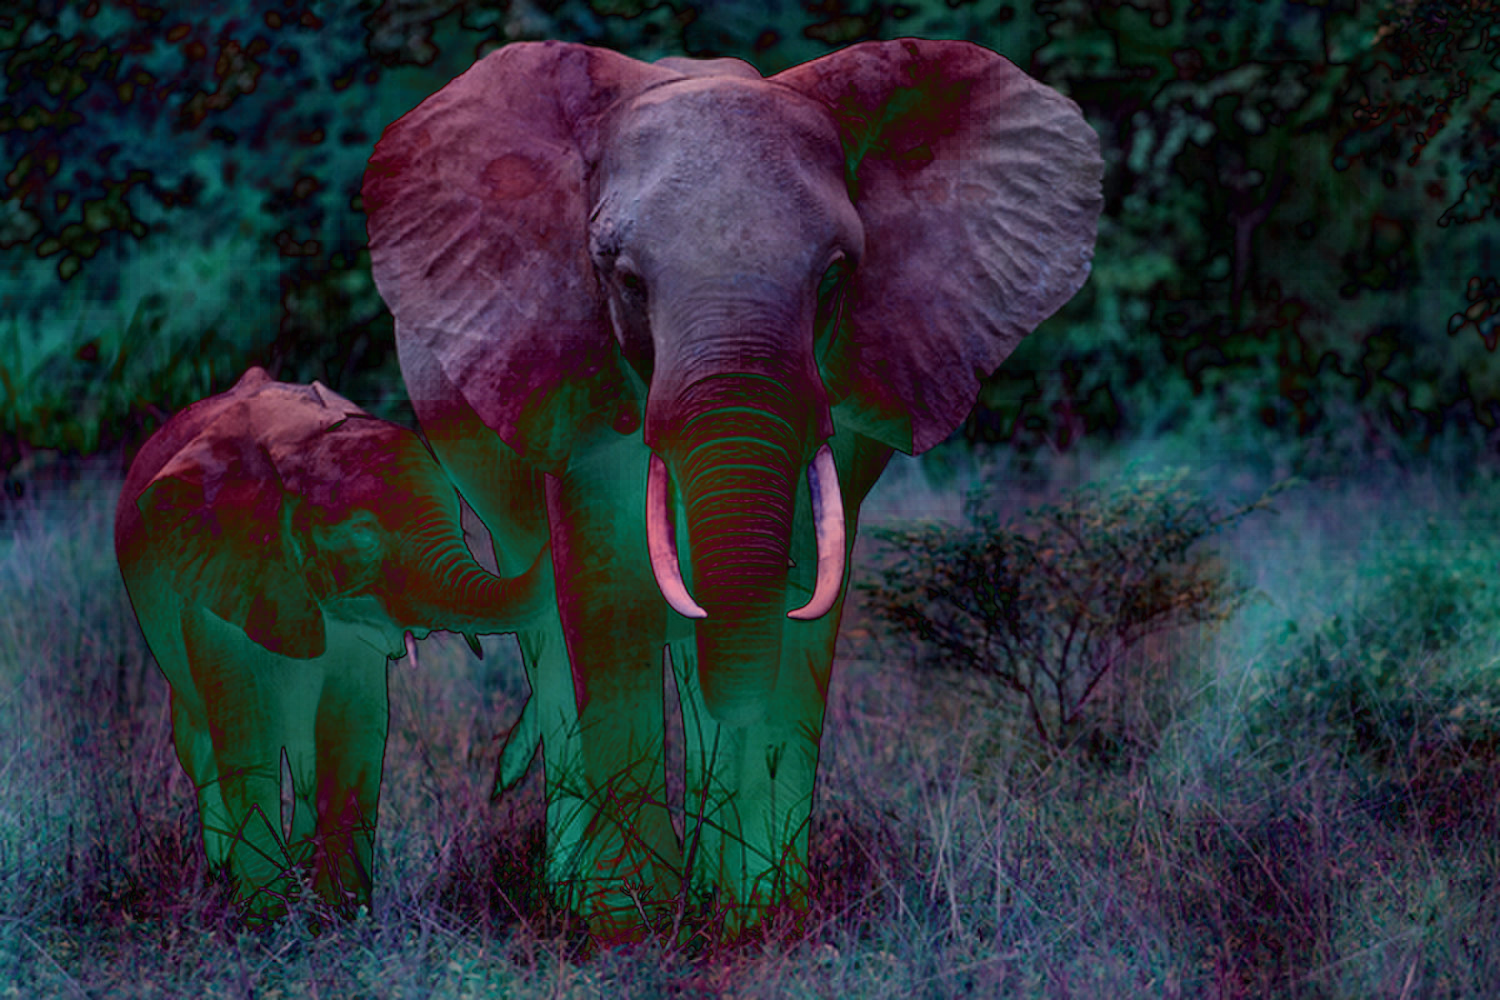
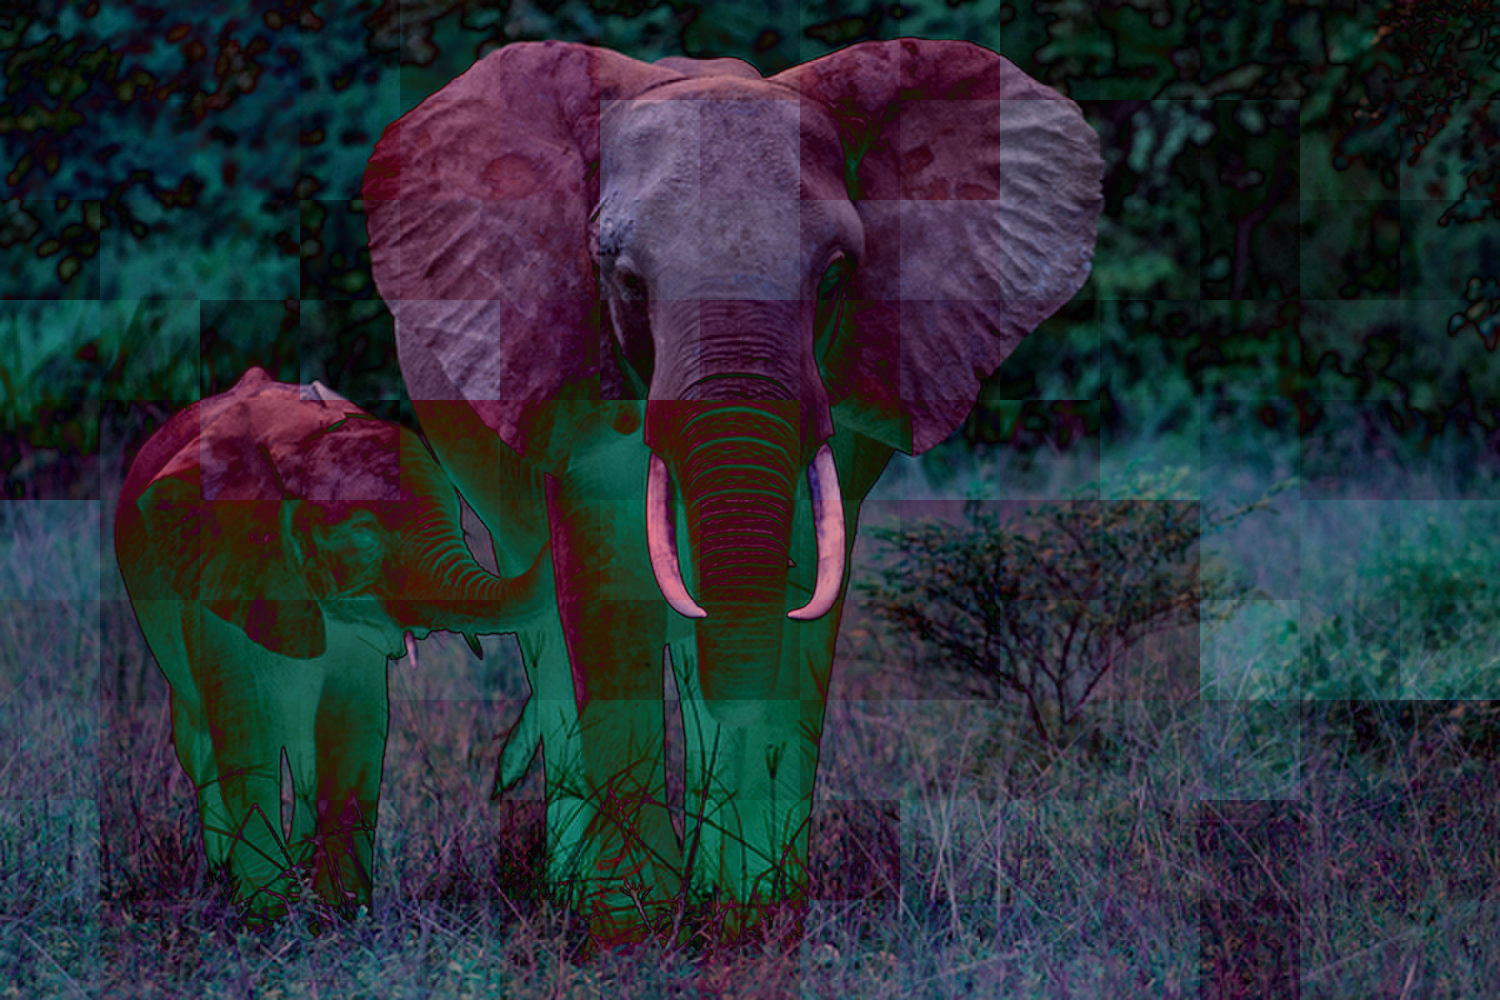
Added comments

diff --git a/images_and_deep_learning/work_with_image.py b/images_and_deep_learning/work_with_image.py
@@ -6,16 +6,16 @@ import matplotlib.pyplot as plt
 from PIL import Image, ImageChops
 
 
-########## Section 2.a −<Loading and Displaying Images>####################### 
+########## Section 2 −<Loading and Displaying Images>####################### 
 # load image
 img = cv2.imread('elephant.jpeg')
 
-# display and save image
+# display the image using Matplotlib and save image
 plt.imshow(img)
 plt.show()
 cv2.imwrite('elephant_opencv.png', img)
 
-# load image
+# load image converted into a RGB space
 im_rgb = cv2.cvtColor(img, cv2.COLOR_BGR2RGB)
 
 # display and save image
@@ -23,11 +23,7 @@ plt.imshow(im_rgb)
 plt.show()
 cv2.imwrite('elephant_matplotlib.png', im_rgb)
 
-im_pillow = np.array(Image.open('elephant.jpeg'))
-im_bgr = cv2.cvtColor(im_pillow, cv2.COLOR_RGB2BGR)
-cv2.imwrite('elephant_matplotlib.png', im_bgr)
-
-# load image
+# load image in grayscale
 img_gray = cv2.imread('elephant.jpeg', cv2.IMREAD_GRAYSCALE)
 
 # display and save image
@@ -37,7 +33,7 @@ cv2.imwrite('elephant_gray.png', img_gray)
 ##############################################################################
 
 ########## Section 3 −<Cropping>############################################## 
-# print dimensions and load image
+# print dimensions of image and crop out the small elephant. 
 print(img.shape) 
 cropped_img = im_rgb[400:900, 100:600]
 
@@ -48,102 +44,99 @@ cv2.imwrite('babyelephant.png', cropped_img)
 ##############################################################################
 
 ########## Section 4 -<Pixel-wise Arithmetic Operations>######################
-# Read in the image in color, and convert it to RGB space.
+# read in the image in color, and convert it to RGB space.
+img_rgb = cv2.cvtColor(img, cv2.COLOR_BGR2RGB)
+plt.imshow(img_rgb)
+plt.show()
+pixel= img_rgb[999, 1499]
+print(pixel) # [168 171  94]
 
-# =============================================================================
-# img_rgb = cv2.cvtColor(img, cv2.COLOR_BGR2RGB)
-# plt.imshow(img_rgb)
-# plt.show()
-# pixel= img_rgb[999, 1499]
-# print(pixel) # [168 171  94]
-# 
-# img_rgb = img_rgb + 256
-# 
-# print(img_rgb.dtype) #uint16
-# plt.imshow(img_rgb)
-# plt.show() 
-# pixel= img_rgb[999, 1499]
-# print(pixel) #[424 427 350]
-# 
-# img_rgb = img_rgb.astype(np.uint8)
-# print(img_rgb.dtype)  #unit8
-# plt.imshow(img_rgb)
-# plt.show()
-# pixel= img_rgb[999, 1499]
-# print(pixel) #[168 171 94]
-# 
-# #Clipping input data to the valid range for imshow with RGB data ([0..1] 
-# #for floats or [0..255] for integers).
-# #The RGB/BGR values are [0, 255] BECAUSE uint8 has that range. 
-# #The reason why Uint8 is very common is because it is the standard way to display images, 
-# #in which each pixel ranges between 0 and 255.
-# =============================================================================
+# add the value 256 to every single pixel in the image
+img_rgb = img_rgb + 256
 
+# check the image's datatype and the pixel values
+print(img_rgb.dtype) #uint16
+plt.imshow(img_rgb)
+plt.show() 
+pixel= img_rgb[999, 1499]
+print(pixel) #[424 427 350]
 
-# =============================================================================
-# bgr_img = cv2.imread("elephant.jpeg")
-# (b,g,r) = cv2.split(bgr_img)
-# 
-# plt.figure()
-# plt.imshow(b)
-# plt.show()
-# plt.figure()
-# plt.imshow(g)
-# plt.show()
-# plt.figure()
-# plt.imshow(r)
-# plt.show()
-# 
-# b = cv2.add(b, 256)
-# g = cv2.add(g, 256)
-# r = cv2.add(r, 256)
-# 
-# plt.figure()
-# plt.imshow(b)
-# plt.show()
-# plt.figure()
-# plt.imshow(g)
-# plt.show()
-# plt.figure()
-# plt.imshow(r)
-# plt.show()
-# print(b.dtype) #uint8
-# 
-# #If you have a datatype that will not overflow if you add 100 to it (i.e. uint16) 
-# #then you can do simply use numpy.add() to do it:
-# #Most images are of type uint8 though so you'd want to clamp the output to a range of 0 to 255. 
-# #But when you do the add, you'd want to use a datatype that didn't overflow. 
-# #So there is some casting (astype()) needed:
-# 
-# bgr_img = cv2.merge([b, g, r])
-# 
-# plt.figure()
-# plt.imshow(bgr_img)
-# plt.show()
-# cv2.imwrite('merged256.png', bgr_img)
-# cv2.waitKey(0)
-# cv2.destroyAllWindows()
-# 
-# =============================================================================
+# convert the image back to uint8 and display the image and the pixel values
+img_rgb = img_rgb.astype(np.uint8)
+print(img_rgb.dtype)  #unit8
+plt.imshow(img_rgb)
+plt.show()
+pixel= img_rgb[999, 1499]
+print(pixel) #[168 171 94]
+
+# split the image into R,G,B channels seperately
+bgr_img = cv2.imread("elephant.jpeg")
+(b,g,r) = cv2.split(bgr_img)
+
+plt.figure()
+plt.imshow(b)
+plt.show()
+plt.figure()
+plt.imshow(g)
+plt.show()
+plt.figure()
+plt.imshow(r)
+plt.show()
+
+# add 256 to each one
+b = cv2.add(b, 256)
+g = cv2.add(g, 256)
+r = cv2.add(r, 256)
+
+plt.figure()
+plt.imshow(b)
+plt.show()
+plt.figure()
+plt.imshow(g)
+plt.show()
+plt.figure()
+plt.imshow(r)
+plt.show()
+print(b.dtype) #uint8
+
+#If you have a datatype that will not overflow if you add 100 to it (i.e. uint16) 
+#then you can do simply use numpy.add() to do it:
+#Most images are of type uint8 though so you'd want to clamp the output to a range of 0 to 255. 
+#But when you do the add, you'd want to use a datatype that didn't overflow. 
+#So there is some casting (astype()) needed:
+
+# merge the channels back together and display the image
+bgr_img = cv2.merge([b, g, r])
+
+plt.figure()
+plt.imshow(bgr_img)
+plt.show()
+cv2.imwrite('merged256.png', bgr_img)
+cv2.waitKey(0)
+cv2.destroyAllWindows()
+
 ##############################################################################
 
 ########## Section 5 -<Resizing images>#######################################
+# read the image in color and convert it to RGB space
 img = cv2.imread('elephant.jpeg')
 img_rgb = cv2.cvtColor(img, cv2.COLOR_BGR2RGB)
 
+# downsample the image by 10x in width and height and save the iamge
 height, width = img_rgb.shape[:2]
 downsample_img = cv2.resize(img_rgb, (round(width / 10), round(height / 10)), interpolation=cv2.INTER_AREA)
 plt.imshow(downsample_img)
 plt.show()
 cv2.imwrite('elephant_10xdown.png', downsample_img)
 
-upsized1 = cv2.resize(img_rgb, (round(width * 10), round(height * 10)), interpolation = cv2.INTER_NEAREST)
+
+upsized1 = cv2.resize(downsample_img, (round(width * 10), round(height * 10)), interpolation = cv2.INTER_NEAREST)
 plt.imshow(upsized1)
 plt.show()
 upsized1_BGR = cv2.cvtColor(upsized1, cv2.COLOR_RGB2BGR)
 cv2.imwrite('elephant_10xup_nearst_neighbor.png', upsized1_BGR)
 
-upsized2 = cv2.resize(img_rgb, (round(width * 10), round(height * 10)), interpolation = cv2.INTER_CUBIC)
+upsized2 = cv2.resize(downsample_img, (round(width * 10), round(height * 10)), interpolation = cv2.INTER_CUBIC)
 plt.imshow(upsized2)
 plt.show()
 upsized2_BGR = cv2.cvtColor(upsized2, cv2.COLOR_RGB2BGR)
@@ -166,9 +159,9 @@ diff2 = np.array(diff2)
 cv2.imwrite('elephant_diff_with_bicubic.png', diff2)
 
 sum1 = cv2.sumElems(diff1)
-print(sum1) #(84037224.0, 72856994.0, 62359036.0, 0.0)
+print(sum1) #(83336620.0, 71851852.0, 62169552.0, 0.0)
 sum2 = cv2.sumElems(diff2)
-print(sum2) #(84047843.0, 72868982.0, 62361368.0, 0.0)
+print(sum2) #(83494819.0, 71880764.0, 62107822.0, 0.0)
 
 cv2.waitKey(0)
 
